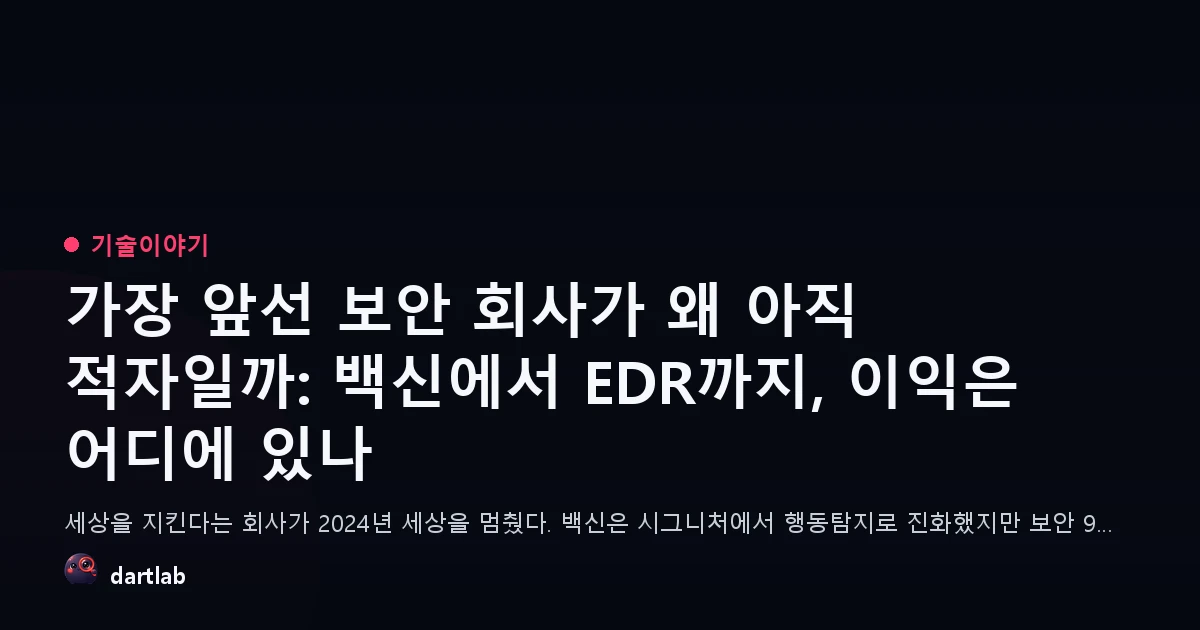
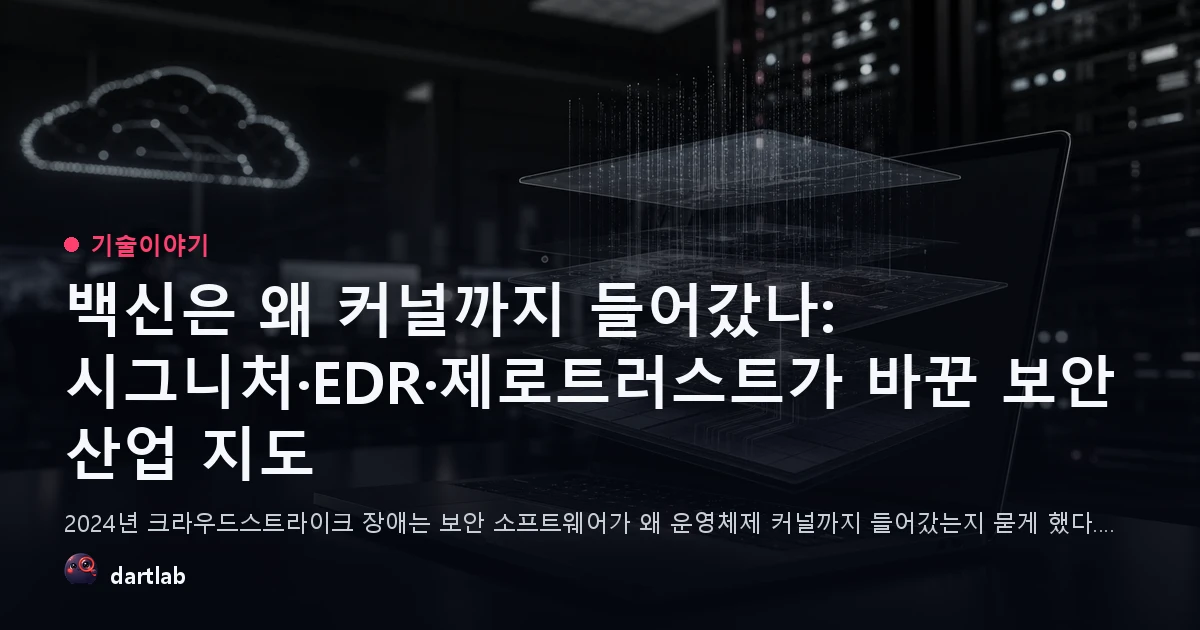
수정: 보안 기술이야기 대표 이미지 추가

diff --git a/blog/08-tech-story/06-antivirus-to-edr-who-profits/index.md b/blog/08-tech-story/06-antivirus-to-edr-who-profits/index.md
@@ -80,6 +80,8 @@ carousel:
 
 이 사고는 이상한 질문을 남긴다. 백신 프로그램이 왜 그렇게 깊은 곳까지 들어가 있어서, 그게 넘어지자 컴퓨터 전체가 부팅조차 못 했을까? 그리고 더 이상한 사실이 하나 더 있다. 이렇게 세상을 좌우할 만큼 중요해진 최전선 보안 회사 크라우드스트라이크는, 매출총이익률이 75%나 되는데도 **회계상 영업적자**다. 반대로 아무도 첨단이라 부르지 않는 옛날 방화벽 회사 포티넷은 영업이익률 30.7%로 조용히 남긴다. 이 글은 그 두 가지 이상함을 하나로 잇는다. 답은 "백신이 어떻게 진화했는가"에 있고, 착지점은 DART와 EDGAR로 확인한 보안 회사 아홉 곳의 손익계산서다.
 
+![커널 계층까지 내려간 EDR 센서와 클라우드 보안 관제의 연결. 행동탐지는 단말의 깊은 이벤트를 봐야 하지만, 그 깊이가 장애의 위험도 함께 키운다](./assets/01-kernel-edr.webp)
+
 ## 1. 백신은 어떻게 악성코드를 잡나: 지명수배 전단의 한계
 
 옛날 백신은 지명수배 전단으로 범인을 잡았다. 이미 알려진 악성코드의 "지문"(시그니처, 코드의 고유한 패턴)을 목록으로 잔뜩 갖고 있다가, 컴퓨터에 들어온 파일이 그 목록과 일치하면 잡아냈다. 안랩의 V3, 노턴, 맥아피가 30년간 이렇게 지켰다. 단순하고 빨랐다.

diff --git a/blog/08-tech-story/06-antivirus-to-edr-who-profits/assets/CREDITS.md b/blog/08-tech-story/06-antivirus-to-edr-who-profits/assets/CREDITS.md
@@ -1,0 +1,6 @@
+# 이미지 출처
+
+- **01-kernel-edr.webp** / 커널 계층 EDR 센서와 클라우드 보안 관제 장면(본문 대표 이미지) / 프로젝트 제작 이미지 / no text
+- **06-thumbnail-bg.webp** / 커널 계층 EDR 센서와 클라우드 보안 관제 장면(썸네일 배경, 01과 동일 원본) / 프로젝트 제작 이미지 / no text
+
+썸네일 렌더: `uv run python -X utf8 blog/_scripts/gen_blog_thumbnails.py --slugs antivirus-to-edr-who-profits --apply`
